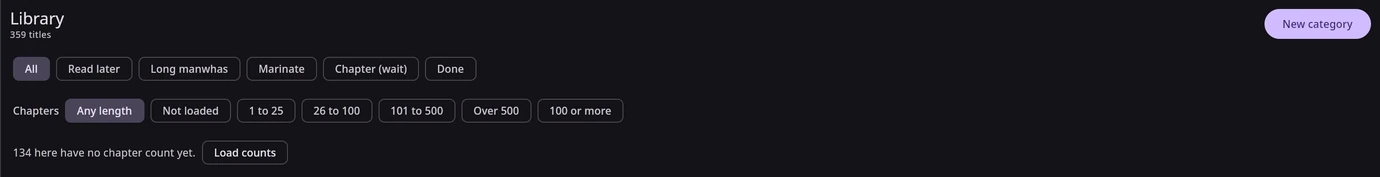
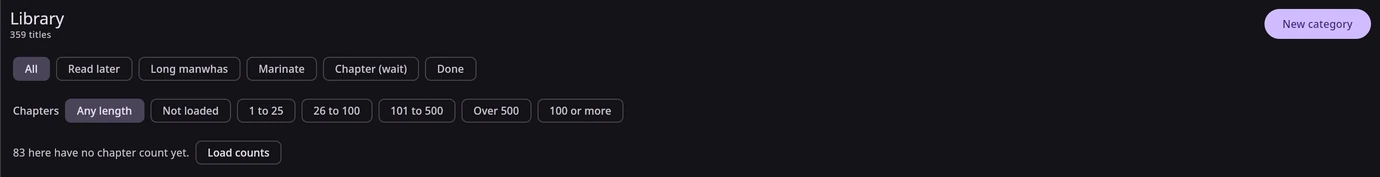
docs: bring the README up to what the app actually is and does
Removes Star History, as asked.

Fixes two things that were actively wrong rather than merely stale. The
header's "Download APK" and the Install section both pointed at this
repository's releases for an APK, and this fork has only ever published a
Linux .deb; the Android build comes from upstream and the links now say
so. The Discord badge counted a server this fork does not run.

Refreshes the desktop screenshots, which still showed the eighteen-item
sidebar from before the rail was reorganised, and adds three more: the
source catalogue, the updates screen and the app update screen. Four in
total, fewer than the Android section's six, taken from a real library on
0.9.10.

Rewrites what the desktop build does, which had drifted a long way behind:
downloading chapters with the four selection options, choosing where they
are saved, tracking the library with a count on the sidebar, and searching
every other source for a title whose own source has dropped it. None of
that existed when the section was written.

Also corrects the updates FAQ, which described only the Android story, and
the badge which is now a count rather than a dot.

Changed region(s): [[0.0, 0.8192, 0.2181, 0.904]]

diff --git a/README.md b/README.md
@@ -10,26 +10,26 @@
 
 <p align="center">
   <a href="https://github.com/byteoverride/DropSauce-desktop/releases/latest"><img alt="Latest release" src="https://img.shields.io/github/v/release/byteoverride/DropSauce-desktop?style=for-the-badge&logo=github&label=latest"></a>
-  <a href="https://discord.com/channels/1435615296202477581/1435650246163169382/1435651186140119091"><img alt="Discord online users" src="https://img.shields.io/discord/1435615296202477581?style=for-the-badge&logo=discord&logoColor=white&label=discord&color=5865F2"></a>
   <a href="https://github.com/byteoverride/DropSauce-desktop/releases"><img alt="Total downloads" src="https://img.shields.io/github/downloads/byteoverride/DropSauce-desktop/total?style=for-the-badge&logo=github&label=downloads"></a>
   <a href="LICENSE"><img alt="GPLv3 license" src="https://img.shields.io/github/license/byteoverride/DropSauce-desktop?style=for-the-badge"></a>
 </p>
 
 <p align="center">
-  <a href="https://developer.android.com/"><img alt="Android 8.0+" src="https://img.shields.io/badge/Android-8.0%2B-3DDC84?style=for-the-badge&logo=android&logoColor=white"></a>
+  <a href="#linux-desktop"><img alt="Linux x86_64" src="https://img.shields.io/badge/Linux-x86__64-FCC624?style=for-the-badge&logo=linux&logoColor=black"></a>
+  <a href="https://developer.android.com/"><img alt="Android 8.0+" src="https://img.shields.io/badge/Android-8.0%2B%20(upstream)-3DDC84?style=for-the-badge&logo=android&logoColor=white"></a>
   <a href="https://kotlinlang.org/"><img alt="Kotlin" src="https://img.shields.io/github/languages/top/byteoverride/DropSauce-desktop?style=for-the-badge&logo=kotlin&logoColor=white"></a>
   <a href="https://developer.android.com/compose"><img alt="Jetpack Compose" src="https://img.shields.io/badge/Jetpack%20Compose-4285F4?style=for-the-badge&logo=jetpackcompose&logoColor=white"></a>
   <a href="https://m3.material.io/"><img alt="Material 3 Expressive" src="https://img.shields.io/badge/Material%203-Expressive-6750A4?style=for-the-badge&logo=materialdesign&logoColor=white"></a>
 </p>
 
 <p align="center">
-  <a href="https://github.com/byteoverride/DropSauce-desktop/releases/latest"><strong>Download APK</strong></a>
+  <a href="https://github.com/byteoverride/DropSauce-desktop/releases/latest"><strong>Download for Linux</strong></a>
   |
-  <a href="https://drop-sauce.app"><strong>Website</strong></a>
-  |
-  <a href="https://discord.com/channels/1435615296202477581/1435650246163169382/1435651186140119091"><strong>Discord</strong></a>
+  <a href="https://github.com/HuzaifaKhalid1311/DropSauce/releases/latest"><strong>Android APK (upstream)</strong></a>
   |
   <a href="https://github.com/byteoverride/DropSauce-desktop/issues"><strong>Issues</strong></a>
+  |
+  <a href="https://drop-sauce.app"><strong>Upstream website</strong></a>
 </p>
 
 ---
@@ -55,7 +55,9 @@
 
 ## About
 
-DropSauce is a free and open-source comic and novel reader for Android, built to feel quick, clean, and comfortable to use with a lot of features
+DropSauce is a free and open-source comic and novel reader, built to feel quick, clean and
+comfortable to use. Upstream targets Android; this fork adds a native **Linux desktop**
+build from the same source tree.
 
 ⭐Please give the repo a star if you like the project. It helps more people find it.🌟
 
@@ -116,16 +118,6 @@ DropSauce is a free and open-source comic and novel reader for Android, built to
 
 </details>
 
-## Star History
-
-<a href="https://www.star-history.com/?repos=byteoverride%2FDropSauce-desktop&type=date&legend=top-left">
- <picture>
-   <source media="(prefers-color-scheme: dark)" srcset="https://api.star-history.com/chart?repos=byteoverride/DropSauce-desktop&type=date&theme=dark&legend=top-left&sealed_token=WCXLPn5xBgloSjmN1d0FVz4b_AhpF7pqchA72IfTFnB7loTdSNmldj4dtjRPvy25mzYWw0HbOjwW5-L3IIKZPiwQNn6MXISsmwmCuCXLybr-2c5ByQ_Ycg" />
-   <source media="(prefers-color-scheme: light)" srcset="https://api.star-history.com/chart?repos=byteoverride/DropSauce-desktop&type=date&legend=top-left&sealed_token=WCXLPn5xBgloSjmN1d0FVz4b_AhpF7pqchA72IfTFnB7loTdSNmldj4dtjRPvy25mzYWw0HbOjwW5-L3IIKZPiwQNn6MXISsmwmCuCXLybr-2c5ByQ_Ycg" />
-   <img alt="Star History Chart" src="https://api.star-history.com/chart?repos=byteoverride/DropSauce-desktop&type=date&legend=top-left&sealed_token=WCXLPn5xBgloSjmN1d0FVz4b_AhpF7pqchA72IfTFnB7loTdSNmldj4dtjRPvy25mzYWw0HbOjwW5-L3IIKZPiwQNn6MXISsmwmCuCXLybr-2c5ByQ_Ycg" />
- </picture>
-</a>
-
 ## Linux desktop
 
 A native desktop build of the reader, written in Compose Multiplatform. It is a second
@@ -137,7 +129,13 @@ untouched.
 </p>
 
 <p align="center">
-  <sub>The library on Linux, filtered by category and by length</sub>
+  <img src="assets/desktop_sources-preview.webp" alt="DropSauce desktop source catalogue" width="32%" />
+  <img src="assets/desktop_updates-preview.webp" alt="DropSauce desktop updates screen for tracked titles" width="32%" />
+  <img src="assets/desktop_appupdate-preview.webp" alt="DropSauce desktop app update screen" width="32%" />
+</p>
+
+<p align="center">
+  <sub>Library | Sources | Updates | App update</sub>
 </p>
 
 ### Filtering a shelf by length
@@ -185,17 +183,32 @@ before trying a new build if you care about what is in it.
 
 ### What it does
 
-Library with categories, catalogue browsing and search, a webtoon reader, reading
-history, bookmarks, downloads for offline reading, importing local comics (CBZ and EPUB),
-backup and restore that round-trips with the Android app, reading statistics, duplicate
-and category cleanup tools, and optional AniList or MyAnimeList tracking.
+**Reading.** A library with categories, catalogue browsing and search across sources, a
+webtoon reader, reading history and bookmarks.
+
+**Offline.** Download chapters from a title, choosing everything, one scanlation branch,
+everything after what you have read, or the next few. Pick where they are saved in
+Settings. Import your own comics as CBZ or EPUB.
+
+**Keeping up.** Track your library and see which titles have new chapters, with a count on
+the sidebar and a mark on the cards themselves. Checks are manual: there is no background
+updater.
+
+**When a source breaks.** Around 380 of the catalogue's sources are flagged broken, and
+titles get dropped from working ones too. Any title can be searched for on every other
+source and moved across, carrying its categories, reading position, bookmarks and
+tracking. The library says how many of its entries sit on a source that cannot be opened.
+
+**Housekeeping.** Backup and restore that round-trips with the Android app, reading
+statistics, duplicate and category cleanup, per-title reader preferences, and optional
+AniList or MyAnimeList tracking.
 
 Sources come from the `kotatsu-parsers` catalogue. Mihon extension APKs and LNReader JS
 plugins are Android-only and are **not** available on desktop.
 
 ### Staying up to date
 
-The app checks this repository's releases once when it starts and puts a dot on the
+The app checks this repository's releases once when it starts and puts a count on the
 **App update** item in the sidebar when there is a newer build. That screen shows what
 changed and links to the package.
 
@@ -226,14 +239,15 @@ present on a normal Debian or Ubuntu install. The Android SDK is only needed for
 Full detail, including where every file is written, is in
 [README-DESKTOP.md](README-DESKTOP.md).
 
-## Install
+## Install on Android
 
-1. Open the [latest GitHub release](https://github.com/byteoverride/DropSauce-desktop/releases/latest).
-2. Download the newest `DropSauce` APK.
-3. Install it on a compatible Android device.
-4. Add your preferred source or extension repository, then start reading.
+This fork does not publish Android builds. Its releases are the Linux `.deb` only, so the
+APK comes from the [upstream project](https://github.com/HuzaifaKhalid1311/DropSauce/releases/latest):
+download the newest `DropSauce` APK and install it on a compatible device. Android may ask
+you to allow installs from your browser or file manager, which is normal for an APK from
+outside the Play Store.
 
-Android may ask you to allow installs from your browser or file manager. That is normal for APKs downloaded outside the Play Store.
+For Linux, see [Linux desktop](#linux-desktop) above.
 
 ## FAQ
 
@@ -244,7 +258,7 @@ Android may ask you to allow installs from your browser or file manager. That is
 > Yes. DropSauce is free and open source under the GPLv3 license.
 
 ### How do updates work?
-> DropSauce supports in-app updates, and release APKs are also published on GitHub. You can update from inside the app or install the latest APK from the Releases page.
+> Both builds check for themselves. The Android app has in-app updates and publishes APKs on upstream's Releases page. The desktop build checks this repository's releases once when it starts and puts a count on the **App update** item in the sidebar; it never downloads or installs anything for you, because a `.deb` needs root.
 
 ### Can I contribute?
 > Yes. Pull requests for patches, fixes, and new features are welcome.
